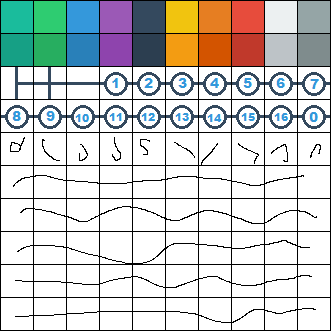
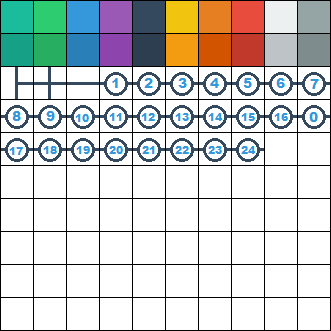
Draw all numbers in range (0-24)
Completed graphics and implemented the drawing of all numbers in the
standard fretboard range.

diff --git a/main.py b/main.py
@@ -111,6 +111,11 @@ class ViewScreen(Screen):
         self._popup.open()
 
     def drawtab(self, tab, wid):
+        # Required tab pre-processing:
+        # 1. Between brackets (|) enforce a bar width (set number of characters)
+        # 2. Find all two-digit numbers in tab (10 to 24) and add one
+        #    hyphen (-) after
+
         charwidth = 32
         charheight = 32
         lineheight = 32
@@ -127,8 +132,9 @@ class ViewScreen(Screen):
             # Parse by character, translating input to graphical output
             with wid.canvas:
                 for j in range(len(line)):
+                    print(j)
                     thischar = line[j]
-                    print(thischar)
+                    #print(thischar)
                     if thischar == '\n' or thischar == ':':
                         pass
                     elif j == 0:
@@ -138,23 +144,67 @@ class ViewScreen(Screen):
                                   size=(32, 32))
                     elif thischar == "|" and j > 0:
                         # Plus bar
-                        print("Making vertical line")
+                        #print("Making vertical line")
                         Rectangle(source='atlas://Assets/main/plusbar',
                                   pos=(j*charwidth, startheight-(i*lineheight)),
                                   size=(32, 32))
                     elif thischar == "-":
                         # Horizontal line
-                        print("Making horizontal line")
+                        #print("Making horizontal line")
                         Rectangle(source='atlas://Assets/main/bar',
                                   pos=(j*charwidth, startheight-(i*lineheight)),
                                   size=(32, 32))
-                    elif int(thischar) >= 0 and int(thischar) <= 24:
-                        print("Making " + thischar)
-                        Rectangle(source=('atlas://Assets/main/norm' + thischar),
-                                  pos=(j*charwidth, startheight-(i*lineheight)),
-                                  size=(32, 32))
+                    # Look for digits
                     else:
-                        print("Can't draw it yet")
+                        found = False
+                        thisdigit = -1
+
+                        # See if this character is in range (0-9)
+                        for num in range(10):
+                            if str(num) == thischar and not found:
+                                found = True
+                                thisdigit = num
+                        # Get next and last character for 2-digit notes
+                        lastchar = ''
+                        nextchar = ''
+                        if found:
+                            if j-1 >= 0:
+                                lastchar = line[j-1]
+                            if j+1 < len(line):
+                                nextchar = line[j+1]
+
+                        if found and lastchar != '1' and lastchar != '2':
+                            # Could be a double digit note
+                            if thischar == '1' or thischar =='2':
+                                nextfound = False
+                                nextchar = line[j+1]
+                                for num in range(10):
+                                    if str(num) == nextchar and not nextfound:
+                                        nextfound = True
+                                        combo = thischar + nextchar
+                                        print("Making " + combo)
+                                        Rectangle(source=('atlas://Assets/main/norm' + combo),
+                                                  pos=(j*charwidth, startheight-(i*lineheight)),
+                                                  size=(32, 32))
+
+                                # Wasn't double digit, draw it alone
+                                if not nextfound:
+                                    #print("Making " + thischar)
+                                    Rectangle(source=('atlas://Assets/main/norm' + thischar),
+                                              pos=(j*charwidth, startheight-(i*lineheight)),
+                                              size=(32, 32))
+
+                            # It's just a lonely single digit, draw it
+                            else:
+                                #print("Making " + thischar)
+                                Rectangle(source=('atlas://Assets/main/norm' + thischar),
+                                          pos=(j*charwidth, startheight-(i*lineheight)),
+                                          size=(32, 32))
+                        else:
+                            print("Unknown symbol or second digit")
+                            Rectangle(source='atlas://Assets/main/bar',
+                                      pos=(j*charwidth, startheight-(i*lineheight)),
+                                      size=(32, 32))
 
             # Increment counter
             i += 1
